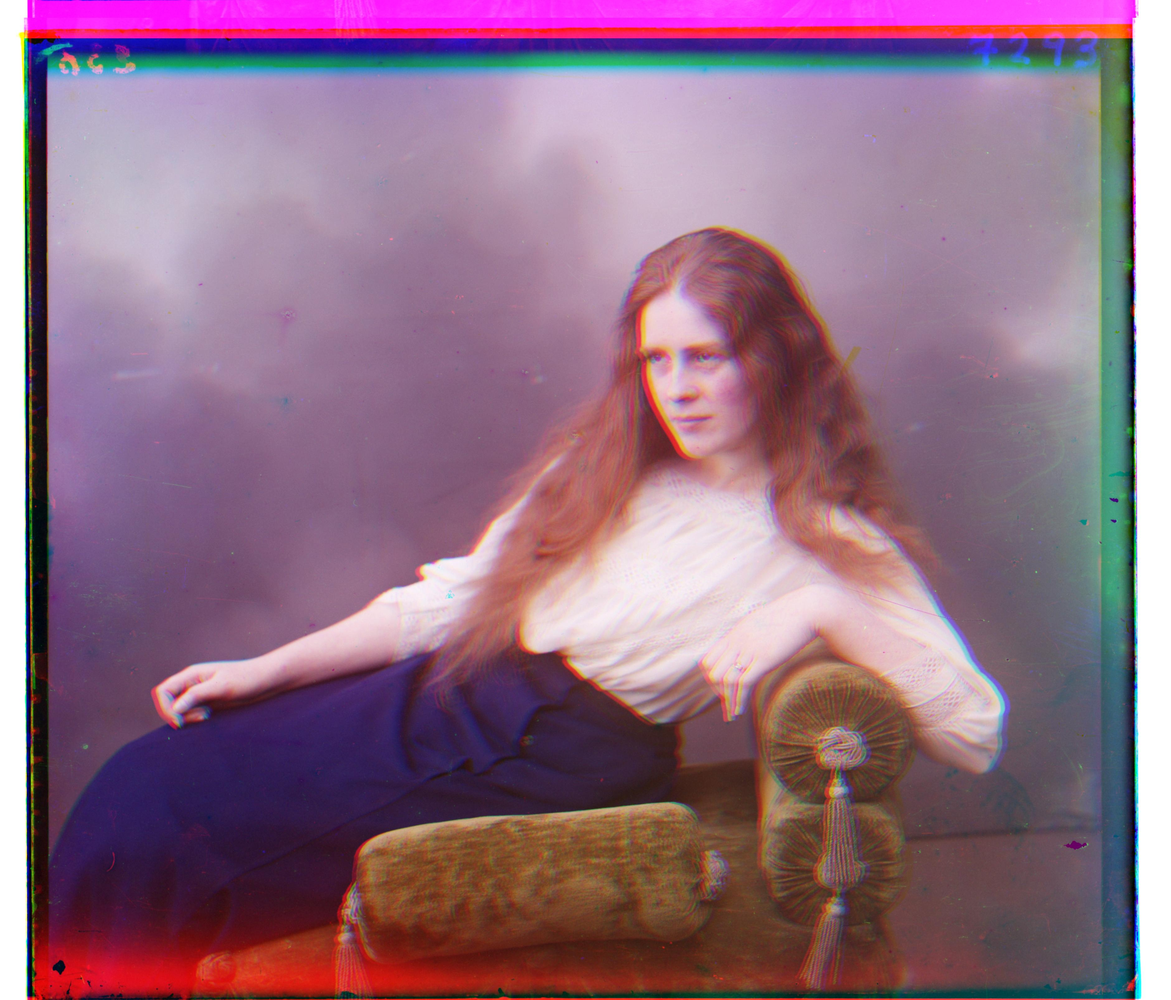
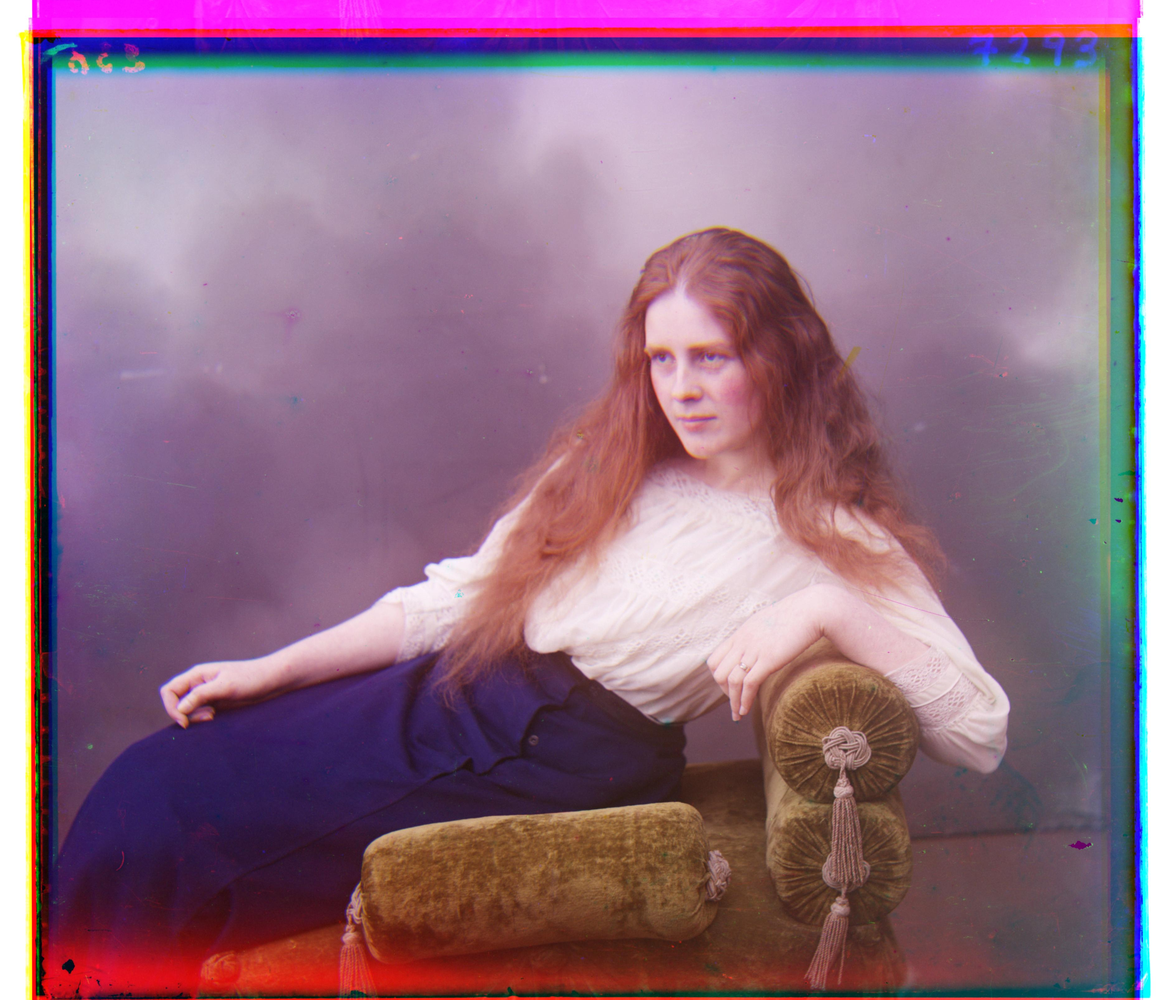
update proj1

diff --git a/1/index.html b/1/index.html
@@ -27,7 +27,7 @@
             <h2>Approach</h2>
             <p>I implemented the basic methods for aligning images (the naive approach of using trial and error to find offsets between images) as well as an image-pyramid approach for larger files that first scales down the image to a base case slightly larger than 32 by 32 pixels, find the offset vector through trial and error, and recursively iterate through larger versions of the image (multiplying the scale by 2 as well as the previous displacement vector) to finally arrive at a displacement for the largest image.</p>
             <p> For a metric for how well aligned the images are, I used the L2 norm between the images and also implemented Normalized Cross-Correlation (NCC) for images that do not work well with the L2 norm comparison.</p>
-            <p> An extra feature I implemented that vastly improved the quality of the colorized image was using Canny edge detection to transform the images and align the images based off the transformed images. I expected NCC to work the best for these since they would compare edges directly, but actually the L2 norm turned out to work the best for the majority of photos in the dataset (probably because canny edge detection is a bit messy and sigma would need to be finetuned for each image for NCC to work well). I've also implemented parallel threading in my code to speed up the image generation process.</p>
+            <p> An extra feature I implemented that vastly improved the quality of the colorized image was using Canny edge detection to transform the images and align the images based off the transformed images. The Canny edge detector first applies a filter derived from a Gaussian function to smooth the image and reduce the influence of noise. Next, the intensity of the gradient at each pixel is calculated to find areas where intensity changes sharply. To refine the results, the algorithm trims down potential edges to single-pixel lines by discarding gradient magnitude values that are not local maxima. Lastly, it uses hysteresis thresholding to decide which remaining pixels truly form part of an edge based on their gradient strength. I expected NCC to work the best for these since they would compare edges directly, but actually the L2 norm turned out to work the best for the majority of photos in the dataset (probably because canny edge detection is a bit messy and sigma and the hysteresis thresholds would need to be finetuned for each image for NCC to work well). I've also implemented parallel threading in my code to speed up the image generation process from ~45 min for all photos to ~24 min for all photos.</p>
             <p>Images are separated by method, with a comparison of techniques at the bottom. The blue image was taken to be an offset of (0,0), and displacement vectors are listed as (vertical, horizontal) pointing down and to the right of the top left corner for positive displacements.</p>
             <p>Extra images I've chosen are marked with *asterisks*! </p>
         </section>
@@ -69,7 +69,7 @@
         </section>
         <section>
             <h2>Image-Pyramid Edge Detection L2 Norm</h2>
-            <p> Generated images are with an image-pyramid approach transformed using Canny edge detection with sigma=1.5 and sweeping over 50 pixel displacements per layer. Comparisons between layers are done using the L2 norm.</p>
+            <p> Generated images are with an image-pyramid approach transformed using Canny edge detection with sigma=1.5 and sweeping over 50 pixel displacements per layer. Comparisons between layers are done using the L2 norm. Lady required sigma=0 to be aligned properly, possibly due to the soft colors with lack of contrast making the gradients smaller and below the hysteresis threshold. </p>
 
             <div class="image-grid">
                 <figure>
@@ -127,6 +127,12 @@
                     <figcaption><b>r: </b>(84, 28) </figcaption>
                 </figure>
                 <figure>
+                    <figcaption><b>Lady (sigma=0)</b></figcaption>
+                    <img src="./media/lady.jpg" alt="lady.jpg">
+                    <figcaption><b>g: </b>(57, 9)</figcaption>
+                    <figcaption><b>r: </b>(120, 13) </figcaption>
+                </figure>
+                <figure>
                     <figcaption><b>*Lugano*</b></figcaption>
                     <img src="./media/lugano.jpg" alt="lugano.jpg">
                     <figcaption><b>g: </b>(41, -17)</figcaption>
@@ -148,13 +154,13 @@
         </section>
         <section>
             <h2>Image-Pyramid L2 Norm</h2>
-            <p> Image-pyramid approach sweeping over 50 pixel displacements per layer. Comparisons between layers are done using the L2 norm.</p>
+            <p> Image-pyramid approach sweeping over 50 pixel displacements per layer. Comparisons between layers are done using the L2 norm. Edge detections seems to have a hard time with aligning the melon image precisely (although it is within several pixels). After inspecting the Canny transformed images, I believe this is because there is a lot more blue contrast in the image to determine edges, and not as much green and red contrast. This makes it slightly more difficult to align green and red images precisely onto the blue. </p>
             <div class="image-grid">
                 <figure>
-                    <figcaption><b>Lady</b></figcaption>
-                    <img src="./media/lady.jpg" alt="lady.jpg">
-                    <figcaption><b>g: </b>(57, -6)</figcaption>
-                    <figcaption><b>r: </b>(123, -17) </figcaption>
+                    <figcaption><b>Melons (Edge Detection)</b></figcaption>
+                    <img src="./media/melonsedge.jpg" alt="melonsedge.jpg">
+                    <figcaption><b>g: </b>(83, 10)</figcaption>
+                    <figcaption><b>r: </b>(163, 11) </figcaption>
                 </figure>
                 <figure>
                     <figcaption><b>Melons</b></figcaption>
@@ -166,7 +172,7 @@
         </section>
         <section>
             <h2>Edge Detection vs. No Edge Detection</h2>
-            <p> Images transformed with Canny Edge Detection generally do a lot better on a couple of the images than the non-edge-detection counterparts, and around equal on others. Below are some examples. Lady is an outlier where edge detection fairs way worse, this may be due to the soft colors and lack of contrast of the image messing up alignment. Melons' edge detection is off by a couple of pixels. </p>
+            <p> Images transformed with Canny Edge Detection generally do a lot better on a couple of the images than the non-edge-detection counterparts, and around equal on others. Below are some examples. </p>
             <div class="image-grid">
                 <figure>
                     <figcaption><b>Emir (None)</b></figcaption>
@@ -197,16 +203,16 @@
             </div>
             <div class="image-grid">
                 <figure>
-                    <figcaption><b>Lady (None)</b></figcaption>
-                    <img src="./media/lady.jpg" alt="lady.jpg">
-                    <figcaption><b>g: </b>(57, -6)</figcaption>
-                    <figcaption><b>r: </b>(123, -17) </figcaption>
+                    <figcaption><b>Self Portrait (None)</b></figcaption>
+                    <img src="./media/self_portrait2.jpg" alt="self_portrait2.jpg">
+                    <figcaption><b>g: </b>(50, -2)</figcaption>
+                    <figcaption><b>r: </b>(130, -5) </figcaption>
                 </figure>
                 <figure>
-                    <figcaption><b>Lady (Edge Detection)</b></figcaption>
-                    <img src="./media/ladyedge.jpg" alt="ladyedge.jpg">
-                    <figcaption><b>g: </b>(56, 10)</figcaption>
-                    <figcaption><b>r: </b>(-10, -24) </figcaption>
+                    <figcaption><b>Self Portrait (Edge Detection)</b></figcaption>
+                    <img src="./media/self_portrait.jpg" alt="self_portrait.jpg">
+                    <figcaption><b>g: </b>(77, 29)</figcaption>
+                    <figcaption><b>r: </b>(175, 37) </figcaption>
                 </figure>
             </div>
         </section>
